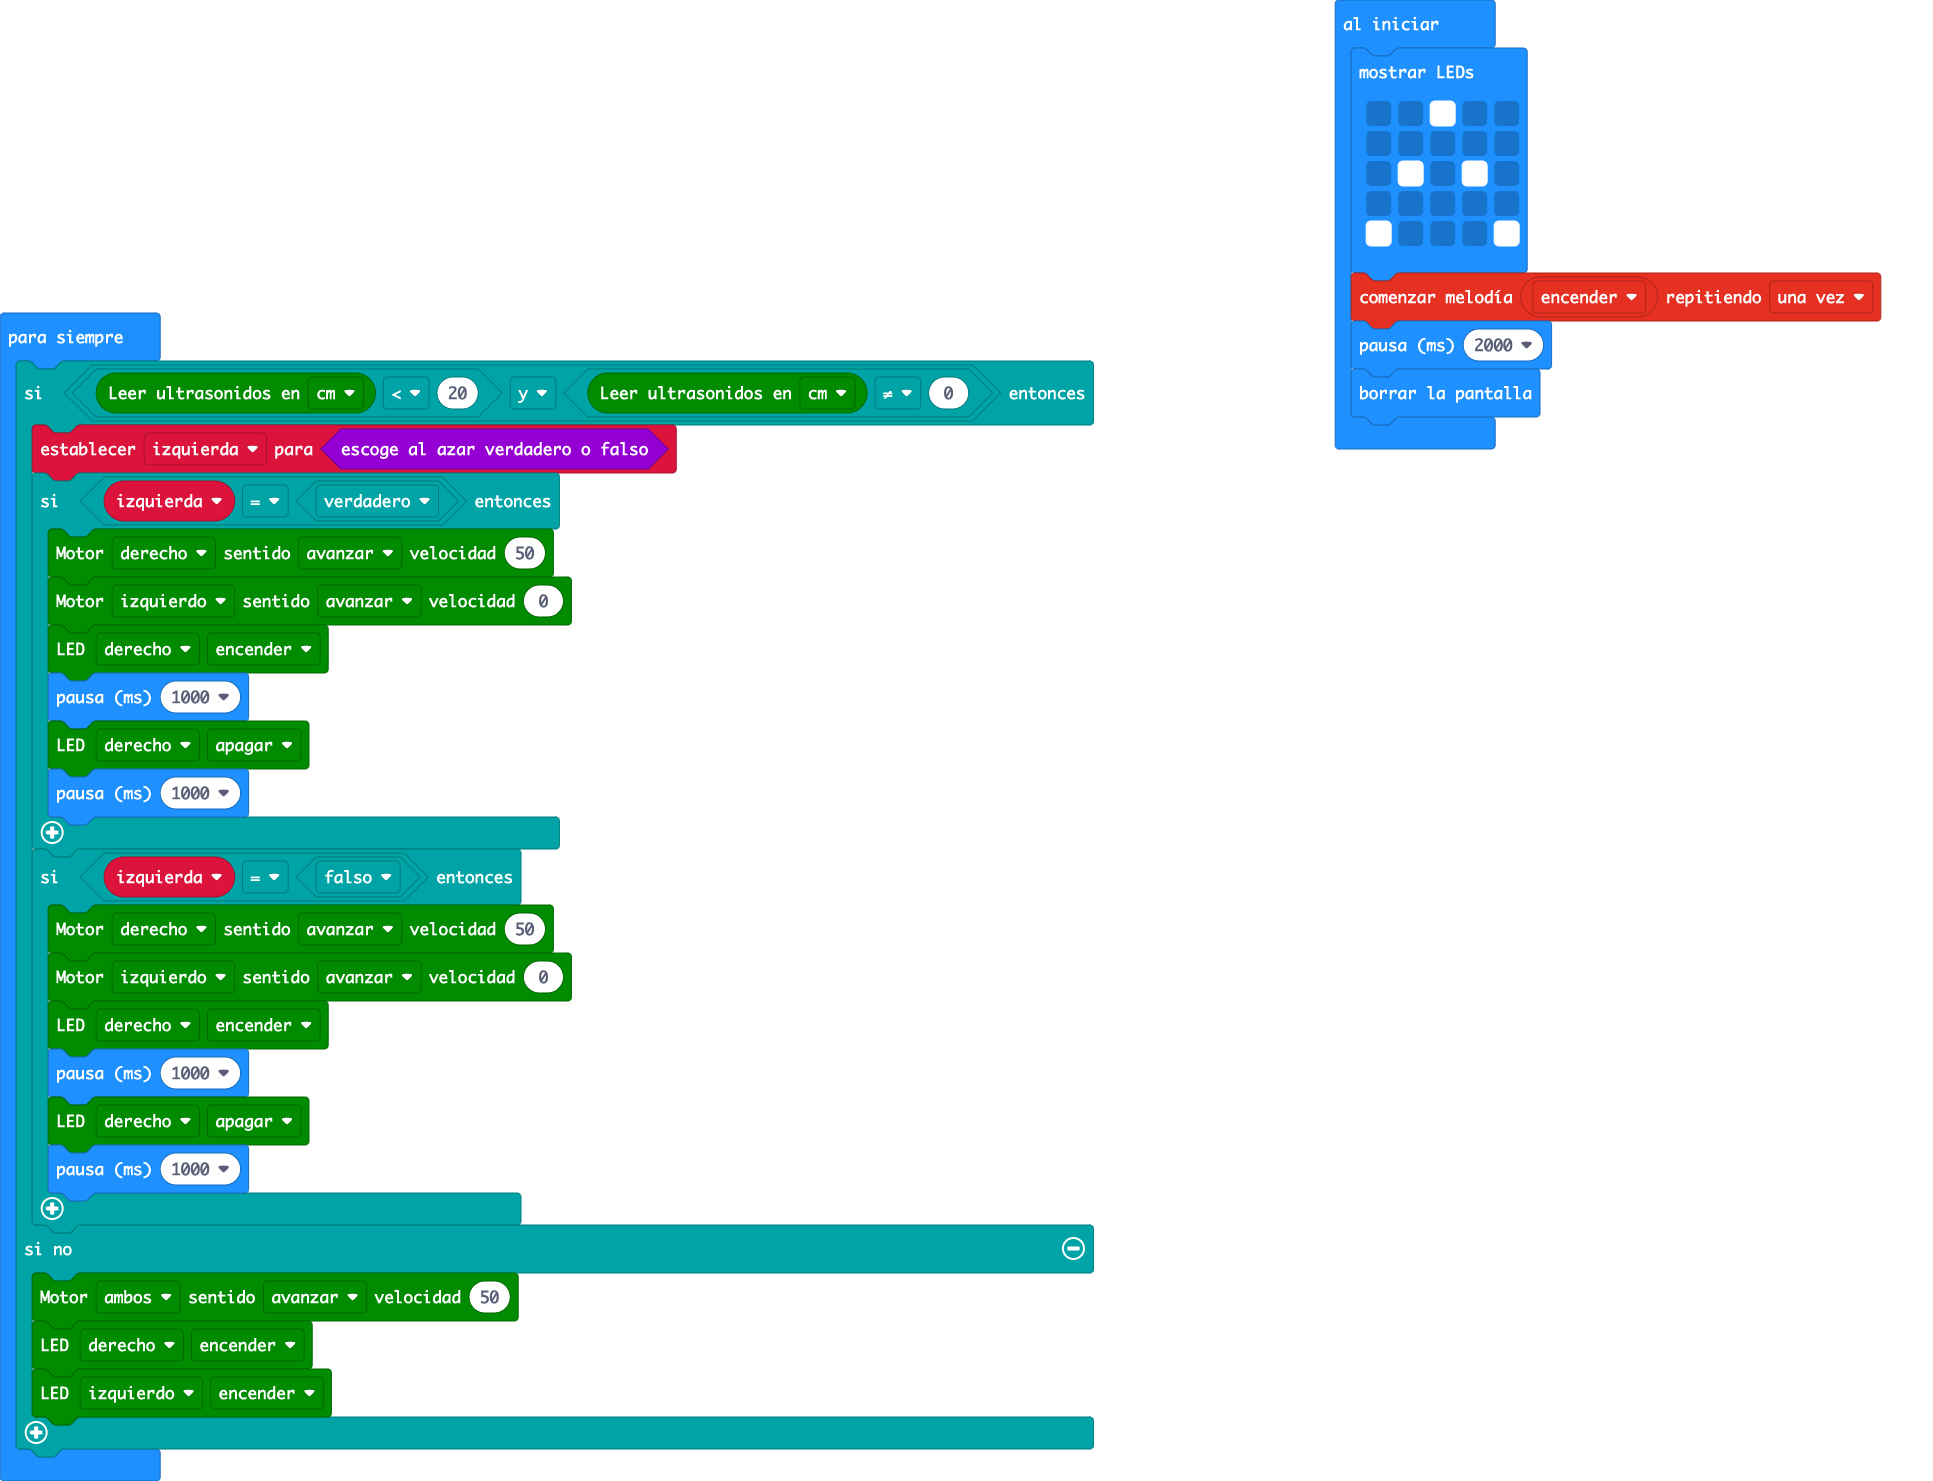
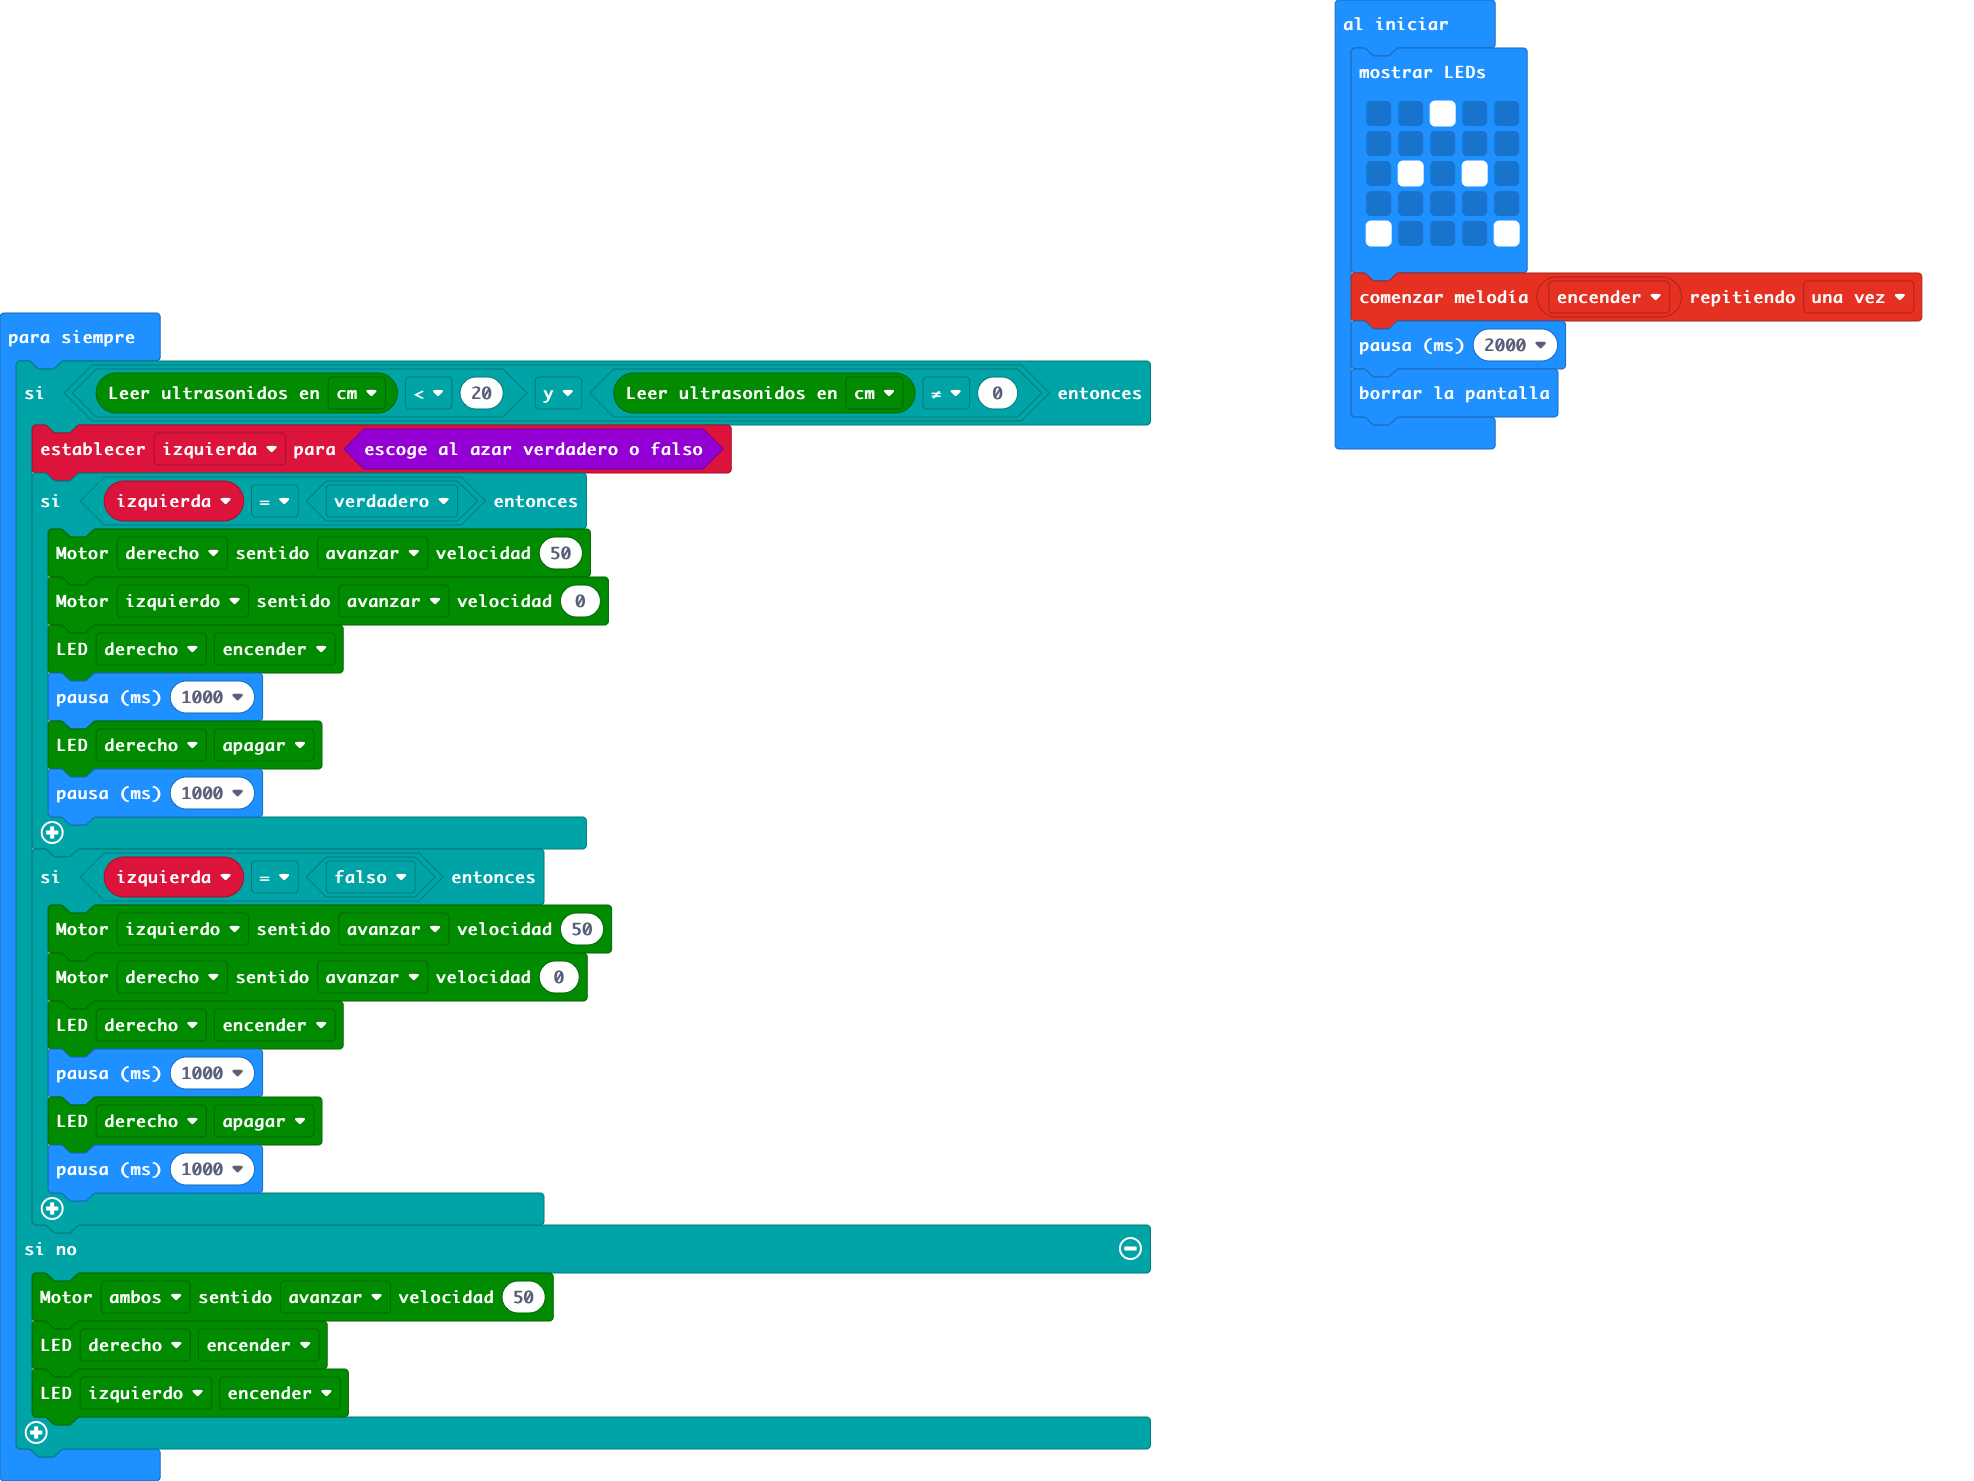
Actualizar main.blocks, main.ts

diff --git a/main.ts b/main.ts
@@ -21,8 +21,8 @@ basic.forever(function () {
             basic.pause(1000)
         }
         if (izquierda == false) {
-            maqueen.motorRun(maqueen.Motors.M2, maqueen.Dir.CW, 50)
-            maqueen.motorRun(maqueen.Motors.M1, maqueen.Dir.CW, 0)
+            maqueen.motorRun(maqueen.Motors.M1, maqueen.Dir.CW, 50)
+            maqueen.motorRun(maqueen.Motors.M2, maqueen.Dir.CW, 0)
             maqueen.writeLED(maqueen.LED.LEDLeft, maqueen.LEDswitch.turnOn)
             basic.pause(1000)
             maqueen.writeLED(maqueen.LED.LEDLeft, maqueen.LEDswitch.turnOff)
